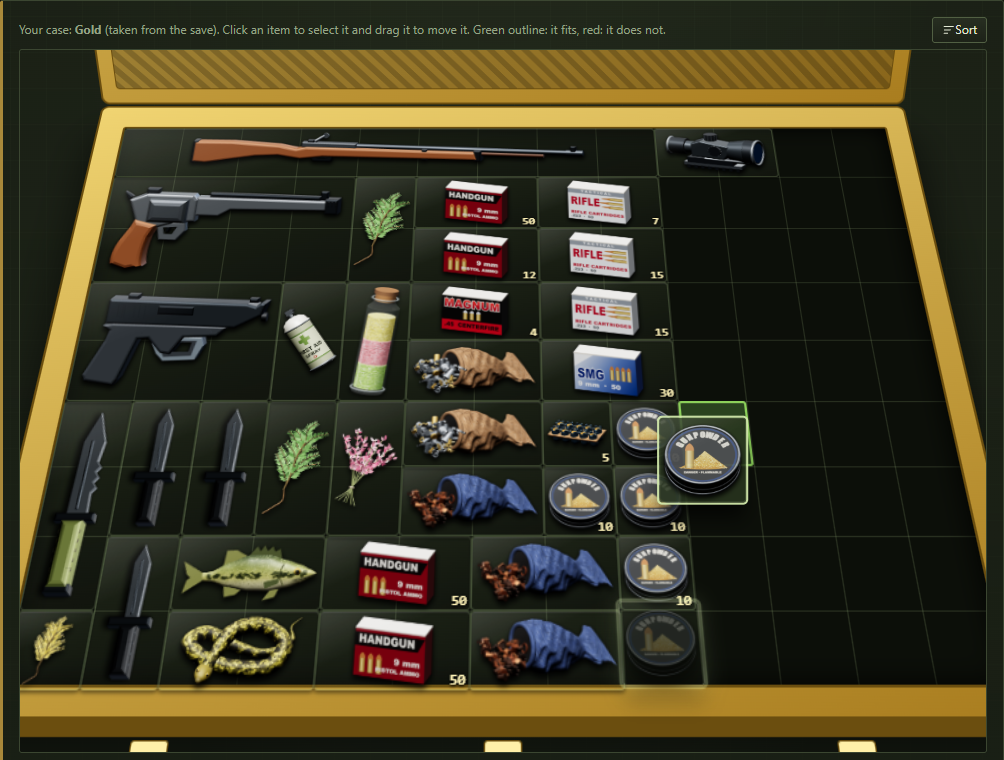
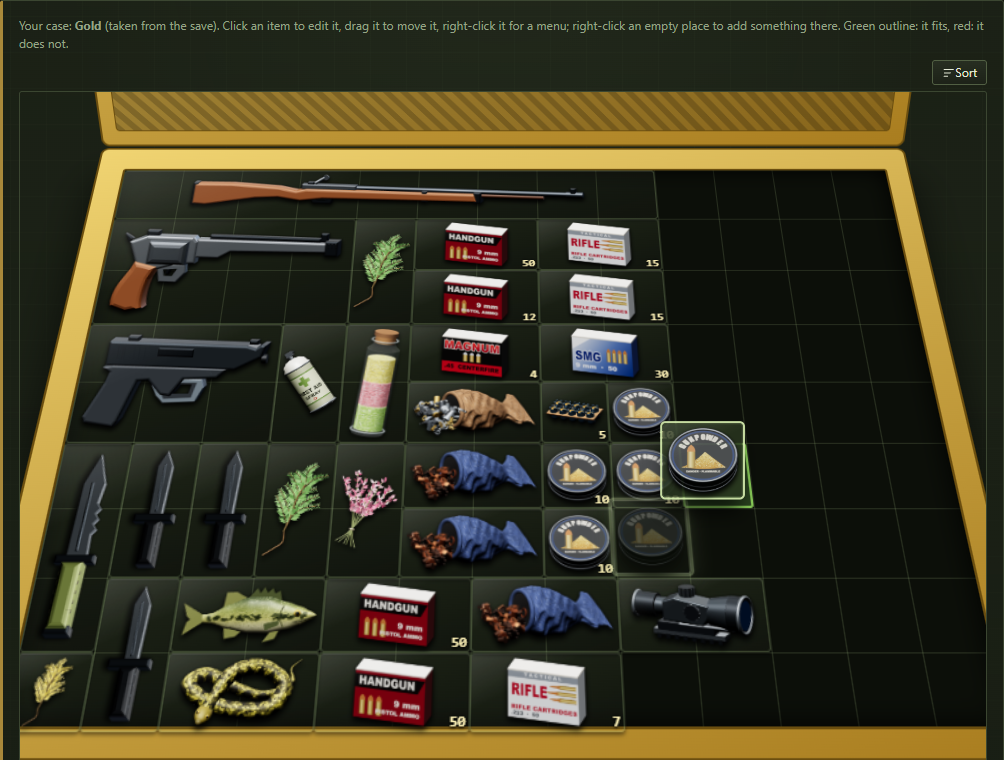
Version 0.9.9 (pre-release)
Short What's new list, release notes with the VirusTotal result, Nexus page text, README and new screenshots (in English), hints of the Case view.

diff --git a/app/public/case3d.js b/app/public/case3d.js
@@ -164,7 +164,7 @@ function drawCase3D(holder, inv) {
   latches.innerHTML = '<i style="left:18%"></i><i style="left:50%"></i><i style="left:82%"></i>';
   box.append(lid, shell, latches); scene.append(box);
   const tools = document.createElement('div'); tools.className = 'toolbar'; tools.style.cssText = 'margin:0 0 6px';
-  tools.innerHTML = `<span class="dim" style="font-size:12px">Your case: <b>${esc(skin.name)}</b> (taken from the save). Click an item to select it and drag it to move it. Green outline: it fits, red: it does not.</span>`;
+  tools.innerHTML = `<span class="dim" style="font-size:12px">Your case: <b>${esc(skin.name)}</b> (taken from the save). Click an item to edit it, drag it to move it, right-click it for a menu; right-click an empty place to add something there. Green outline: it fits, red: it does not.</span>`;
   const sortBtn = document.createElement('button'); sortBtn.className = 'sm'; sortBtn.style.marginLeft = 'auto'; sortBtn.innerHTML = ic('sort') + 'Sort';
   sortBtn.title = 'Pack the items to the left, grouped: weapons, throwables, healing, ammo, accessories, the rest. Undo with Ctrl+Z or "Undo".';
   sortBtn.onclick = () => structural('sort', { inv: inv.index }, 'Case sorted');
@@ -211,7 +211,7 @@ function drawCase3D(holder, inv) {
     caseKeys.cur.menu = [rot, fu, ub, sb, dup, del].filter(Boolean); // the right-click menu offers the same buttons
     rot.title = 'Key: R'; del.title = 'Key: Delete';
     bar.append(Object.assign(document.createElement('div'), { className: 'dim', textContent: 'Keys: R rotate · Delete remove · arrows move (past items in the way) · Esc deselect · Ctrl+Z undo', style: 'flex-basis:100%;font-size:12px' }));
-  } else bar.innerHTML = '<span class="dim">Click an item to select it; drag it to move it.</span>';
+  } else bar.innerHTML = '<span class="dim">Click an item to edit it; drag it to move it; right-click for a menu or, on an empty place, to add an item or a weapon there.</span>';
   card.append(bar);
   // upgrade levels and gem sockets of the selected item, as in the list
   if (sel && ((sel.upg && ui.upg[inv.index + ':' + sel.idx]) || (sel.sockets && sel.sockets.length))) {

diff --git a/README.md b/README.md
@@ -13,17 +13,17 @@ It runs on your own computer, opens in your browser or its own window and never 
 > Editing saves can corrupt them. The editor makes a backup before every write, but keep your own copies too.
 
 > [!NOTE]
-> This is a pre-release (0.9.8). It has been tested on a limited set of saves; please report what you find.
+> This is a pre-release (0.9.9). It has been tested on a limited set of saves; please report what you find.
 
-**New in 0.9.8:** the storage (move weapons between it and the case, upgrade them there), gems in treasures, six more weapons in Add weapon (W-870, Striker, TMP, CQBR, Bolt Thrower, Rocket Launcher), eggs. [Release notes](https://github.com/distrix11/RE4-Remake-Save-Editor/releases/tag/v0.9.8)
+**New in 0.9.9:** twelve more weapons in Add weapon (Broken Butterfly, Skull Shaker, the special rocket launchers, more knives, and for Separate Ways Punisher MC, TMP, Chicago Sweeper, Rocket Launcher, Elite Knife), editing and adding right in the Case view (click, right click), deleting equipped weapons, and weapons that go into the storage with their attachments. [Release notes](https://github.com/distrix11/RE4-Remake-Save-Editor/releases/tag/v0.9.9)
 
 ## Features
 
 - <img src="icons/items/gold_bar.png" height="26" align="top"> **Money**: Pesetas and Spinel.
 - <img src="icons/items/case_gold.png" height="26" align="top"> **Inventory** (attaché case, key items, treasures, recipes/charms):
   search, category filter, sorting; edit counts, ammo, durability and item IDs;
-  **add** items from a catalog of ~220 items (grenades and eggs included, gems in the sockets of treasures), **duplicate**, **delete**;
-  **case size** selector; **grenades** can be added too; **Repair knives** and **Fill ammo stacks** buttons; a **Case view** (the case lying down, like in the game) where items are moved by dragging and rotated; **weapon upgrades** (levels 0-4, a **Full upgrade** button and the exclusive upgrade switch), **Add weapon…** (a new weapon from a built-in list, or a copy from another of your slots, with its picture and whether it fits the case now) and a **Sort** button that tidies the case; a **Storage** tab (move weapons between it and the case, upgrade them there); **Undo** (button or Ctrl+Z) takes back the last changes one by one, **Ctrl+S** saves to the game (after the summary), **Upgrade all weapons** fully upgrades the whole case, and the start screen shows a card for every slot.
+  **add** items from a catalog of ~220 items (grenades and eggs included, gems in the sockets of treasures), **duplicate**, **delete** (equipped weapons too);
+  **case size** selector; **grenades** can be added too; **Repair knives** and **Fill ammo stacks** buttons; a **Case view** (the case lying down, like in the game) where items are moved by dragging and rotated; **weapon upgrades** (levels 0-4, a **Full upgrade** button and the exclusive upgrade switch), **Add weapon…** (a new weapon from a built-in list, or a copy from another of your slots, with its picture and whether it fits the case now) and a **Sort** button that tidies the case; a **Storage** tab (move weapons, with the attachments fitted to them, and attachments between it and the case; upgrade weapons there); **Undo** (button or Ctrl+Z) takes back the last changes one by one, **Ctrl+S** saves to the game (after the summary), **Upgrade all weapons** fully upgrades the whole case, and the start screen shows a card for every slot.
 - <img src="icons/items/recipe.png" height="26" align="top"> **Merchant requests**: shows the goals of every request and can mark the goals as completed.
 - <img src="icons/items/crown.png" height="26" align="top"> **Treasures**: which treasure types you have obtained and how many world pickups are recorded per area (approximate).
 - <img src="icons/items/token_gold.png" height="26" align="top"> **Achievements**: reads your local Steam achievement cache (read-only) and shows progress hints computed from the save.
@@ -35,7 +35,7 @@ It runs on your own computer, opens in your browser or its own window and never 
   The first time the editor runs it keeps a protected copy of every slot. If a game update changes the save layout,
   adding, moving and removing items is disabled and a banner explains why.
 - <img src="icons/items/herb_green.png" height="26" align="top"> **Case view**: a pale-green theme in the spirit of the original game and a static perspective view of your attaché case with 3D-rendered item icons.
-  The case takes the look (Silver, Black, Leather, Gold, Classic) of the skin selected in your save. Every catalogue item has its own icon (original 3D models, weapons included, rendered by `scripts/icon-render`); you can add your own pictures for any item in `icons/user/<item id>.png`. Items are moved by dragging them in the Case view; for the selected item R rotates (its picture turns too), Delete removes, the arrows move and Esc deselects.
+  The case takes the look (Silver, Black, Leather, Gold, Classic) of the skin selected in your save. Every catalogue item has its own icon (original 3D models, weapons included, rendered by `scripts/icon-render`); you can add your own pictures for any item in `icons/user/<item id>.png`. Items are moved by dragging them in the Case view. A click on an item shows everything about it (count, ammo, durability, upgrades, gem sockets, To storage), a right click opens a menu of its actions, and a right click on an empty place offers **Add item here…** and **Add weapon here…**. For the selected item R rotates (its picture turns too), Delete removes, the arrows move and Esc deselects.
 - <img src="icons/items/crown.png" height="26" align="top"> **Motion**: a start screen, the attaché case opens, items slide and settle into their cells, soft transitions between tabs and windows. If animation effects are turned off in Windows, choose Settings > Animations > On to see them.
 - <img src="icons/items/compass.png" height="26" align="top"> **Updates and About**: the first start of a new version shows what changed (**What's new**, also in the **?** dialog); once a day (can be turned off in the **?** dialog) the editor asks GitHub for the latest release number and offers to open the download page. Nothing is downloaded or installed automatically, and no personal data is sent.
 - <img src="icons/items/cog.png" height="26" align="top"> **Advanced**: a raw tree view of every field in the save file with search.
@@ -54,6 +54,7 @@ Every item of the catalogue has its own icon. They are rendered from original 3D
 | ![Dragging an item](docs/screenshots/03-case-drag.png) | ![Merchant requests](docs/screenshots/04-merchant-requests.png) |
 | ![Treasures](docs/screenshots/05-treasures.png) | ![Change summary](docs/screenshots/07-change-summary.png) |
 | ![Case view](docs/screenshots/08-case-view.png) | ![Settings](docs/screenshots/09-settings.png) |
+| ![Case view: the menu of an item and its panel](docs/screenshots/06-case-menu.png) | |
 
 ## Requirements
 
@@ -114,7 +115,7 @@ alignment recomputed. Nothing is written to the game folder without a backup.
 
 - Item sizes in the case are **estimates** inferred from real layouts; items may look different in game.
 - Weapon upgrade levels are limited to 0-4 (the highest seen in real saves). Some weapons have fewer upgrades; the editor does not know which.
-- **Add weapon…** offers new weapons (no upgrades, empty magazine) only for the weapons in its built-in list (21 for the main game, 7 for Separate Ways): not yet for the Broken Butterfly, the special rocket launchers and some knives. A weapon from another of your slots of the same campaign can be copied too. The game deletes weapons of the other campaign, bonus or DLC weapons you have not unlocked (for example the Chicago Sweeper), weapons that do not fit the case, and may delete a second copy of one you already carry. The exclusive upgrade is a 0/1 switch and needs every other upgrade at 4.
+- **Add weapon…** offers new weapons (no upgrades, empty magazine) only for the weapons in its built-in list (28 for the main game, 13 for Separate Ways): not for the Minecart Red9, Krauser's Bow and the Kitchen Knife of Separate Ways. The Elite Knife of Separate Ways goes into the storage: the game keeps it only there. A weapon from another of your slots of the same campaign can be copied too. The game deletes weapons of the other campaign, bonus or DLC weapons you have not unlocked (for example the Chicago Sweeper), weapons that do not fit the case, and may delete a second copy of one you already carry. The exclusive upgrade is a 0/1 switch and needs every other upgrade at 4.
 - Names of merchant requests are not stored in the save; the mapping is partly inferred and marked in the UI.
 - The item catalog is community-compiled and may contain mistakes.
 - Tested on a limited set of saves and one game version (see `docs/TESTING.md` for the in-game checklist). Game patches may change the save format.

diff --git a/docs/RELEASE-0.9.9.md b/docs/RELEASE-0.9.9.md
@@ -1,0 +1,64 @@
+# RE4 Save Editor v0.9.9 (pre-release)
+
+An unofficial, local save editor for **Resident Evil 4 (2023 remake), Steam, Windows**. It runs on your own computer and never sends your saves anywhere.
+
+> [!WARNING]
+> **Pre-release. Use at your own risk.** Editing saves can corrupt them. The editor makes a backup before every write and keeps a protected first-run copy of every slot, but keep your own copies too. It is best to close the game before saving, and consider turning off Steam Cloud for RE4.
+
+## What is new in 0.9.9
+
+- **Twelve more weapons** in **Add weapon…**, taken from saves where the game itself added them, with their sizes checked in the game: Broken Butterfly, Skull Shaker, Rocket Launcher (Special), Rocket Launcher (Infinite), Primal Knife, Kitchen Knife, Boot Knife (also in Separate Ways), and for Separate Ways Punisher MC, TMP, Chicago Sweeper, Rocket Launcher and the **Elite Knife**. The game keeps the Elite Knife only in the storage, so the editor puts it there.
+- **Case view**: a click on an item shows everything the list has (count, ammo, durability, upgrade levels, gem sockets, **To storage**); a **right click** opens a menu (Rotate, Full upgrade, Upgrades, To storage, Copy, Delete); a right click on an empty place offers **Add item here…** and **Add weapon here…**, and the new item goes onto that place.
+- **Equipped weapons** can be deleted or put into the storage: their equip slot and quick slots are emptied.
+- **Storage**: weapons go there and back **with the attachments fitted to them**, as the game does; scopes, stocks and the laser sight can be moved on their own. Other things stay out of the storage, as in the game.
+- The page keeps its place after Delete, Copy or another change; a new revolver picture for the Broken Butterfly; the Kitchen Knife takes 1×2 cells, as in the game.
+
+## What was new in 0.9.8
+
+- The storage, gems in treasures, six more weapons, eggs, and "incompatible save data" explained.
+
+## What you can do
+
+- **Money**: Pesetas and Spinel.
+- **Attaché case**: add, copy and delete items from a catalogue of ~220, change counts, ammo and durability, change the **case size** and the **case look** (Silver, Black, Leather, Gold, Classic).
+- **Case view**: your case lying down like in the game, with original 3D-rendered icons for every item and weapon. Drag items to move them, rotate them, or press **Sort** to tidy the case; click or right-click an item to edit it, right-click an empty place to add something there.
+- **Weapons**: add a new one or copy one from another slot; upgrade levels 0-4, **Full upgrade**, **Upgrade all weapons** and a switch for the exclusive upgrade.
+- **Merchant requests**, **treasures**, **achievements** (read-only hints) and an **Advanced** raw field view (asks for a one-time confirmation).
+- **Safety**: a "game is running" warning, a summary of every change before writing, writes that are decrypted back and compared before they replace the file, a backup manager and restore, copying one slot into another.
+
+## Download
+
+**`RE4SaveEditor-0.9.9-windows-allinone.zip`** (38.7 MB): extract it anywhere and double-click `Start RE4 Save Editor.js`. Nothing to install: Node.js is inside and the save encryption is built in. If Windows asks whether to run the script, choose Open / Run; if `Start RE4 Save Editor.js` opens in a text editor, use "Open with > Microsoft Windows Based Script Host".
+
+SHA-256:
+
+```text
+4a668b95752ba71e39d4419c3b3931842d632d76aaf830302e80045f5aeef714  RE4SaveEditor-0.9.9-windows-allinone.zip
+```
+
+A smaller script-only package (needs [Node.js](https://nodejs.org) 20+ installed) is published on Nexus Mods. To build from source: `git clone`, run `build.bat` once, then `start.bat`.
+
+**VirusTotal:** [1 engine](https://www.virustotal.com/gui/file/4a668b95752ba71e39d4419c3b3931842d632d76aaf830302e80045f5aeef714) flags this archive (a generic heuristic for scripts, as in earlier versions; a false positive in our opinion); the other engines report it clean. The number can change when the file is re-scanned: the link shows the current result.
+
+## Quick start
+
+1. Close the game: if the game has saved a slot since it was started, it refuses that slot after an edit ("incompatible save data") until it is restarted.
+2. Start the editor, pick a slot on the start screen, edit, press **Save to game**. A summary of the changes is shown first.
+3. **More > Restore from backup...** undoes a write at any time.
+
+The save folder (`<Steam>/userdata/<account>/2050650/remote/win64_save`) is found automatically; use the gear button if you have several Steam accounts.
+
+## Known limitations
+
+- Item sizes in the case are taken from real layouts; a few items may still look different in the game.
+- Weapon upgrade levels are limited to 0-4 (the highest seen in real saves). Some weapons have fewer upgrades; the editor does not know which.
+- A few weapons cannot be added as new: the Minecart Red9, Krauser's Bow and the Kitchen Knife of Separate Ways.
+- Names of merchant requests are not stored in the save; the mapping is partly inferred.
+- Tested on a limited set of saves and one game version; a game patch may change the save format (the editor then disables structural edits and says so).
+- Windows and the Steam version only.
+
+## Feedback
+
+Please open an issue and describe what happened (the editor's **Copy diagnostics** button gives a report without personal data). Please **do not attach your save files** to an issue: a save is tied to your Steam account number (not your password or e-mail), which would become public.
+
+Full list of changes: [CHANGELOG.md](https://github.com/distrix11/RE4-Remake-Save-Editor/blob/main/CHANGELOG.md).

diff --git a/CHANGELOG.md b/CHANGELOG.md
@@ -1,6 +1,13 @@
 # Changelog
 
-## Unreleased (for 0.9.9)
+## 0.9.9 (pre-release)
+- **Twelve more weapons** in Add weapon: Broken Butterfly, Skull Shaker, both special rocket launchers, Primal, Kitchen and Boot Knife; for Separate Ways Punisher MC, TMP, Chicago Sweeper, Rocket Launcher and the Elite Knife (it goes into the storage).
+- **Case view**: a click on an item shows everything about it (ammo, durability, upgrades, gems, To storage); a right click opens a menu; a right click on an empty place adds an item or a weapon right there.
+- **Equipped weapons** can be deleted or put into the storage.
+- **Storage**: weapons go there and back with the attachments fitted to them; attachments can be moved on their own.
+- The page keeps its place after a change; a revolver picture for the Broken Butterfly.
+
+### Details
 - **Seven more weapons** in **Add weapon…**: Broken Butterfly, Skull Shaker, Rocket Launcher (Special), Rocket Launcher (Infinite), Primal Knife, Kitchen Knife and Boot Knife, taken from saves where the game itself added them. The weapon library is also built from weapons in the storage now.
 - **Elite Knife** (Separate Ways) in **Add weapon…**: the knife that never breaks, a reward of the Merchant's requests of Separate Ways. It goes into the **storage**: checked in the game, the game removes it from the case when the editor puts it there, but keeps it in the storage (take it out at a typewriter).
 - A name for one more recipe of the Bolt Thrower (Recipe: Bolts (3)).
